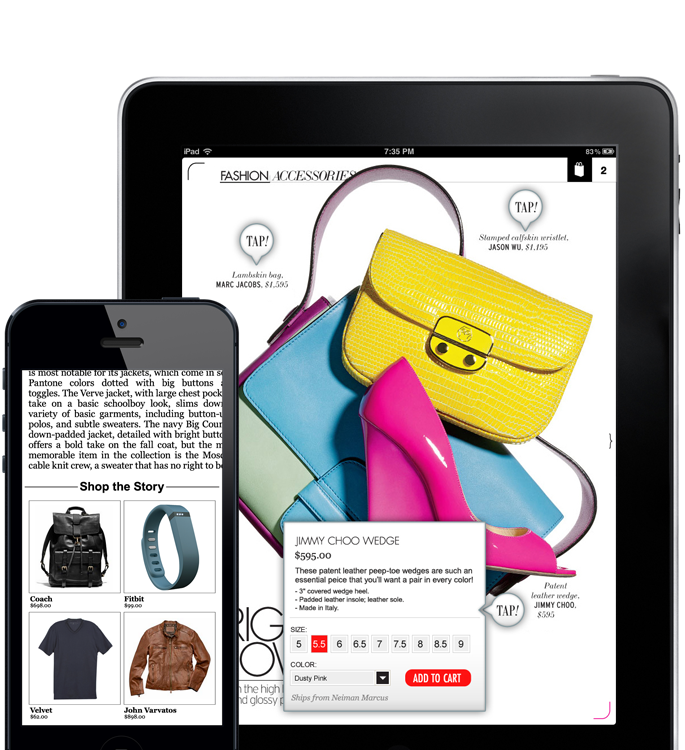
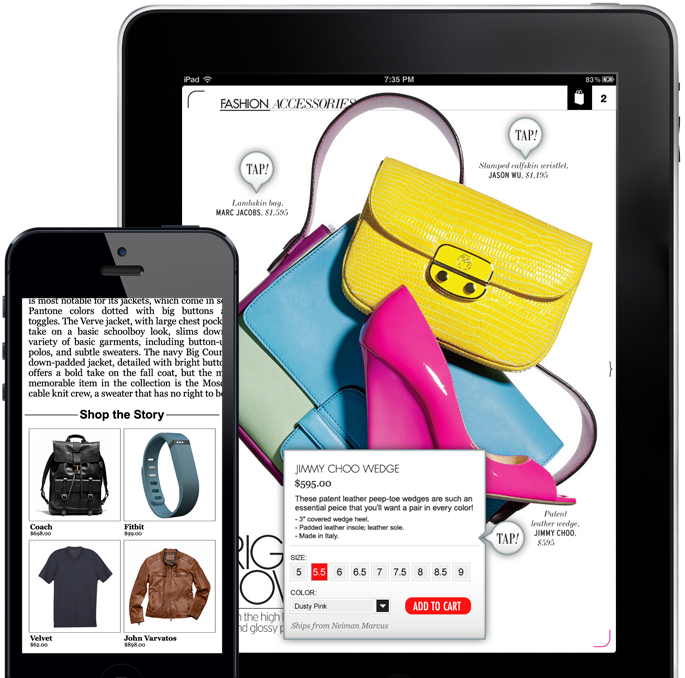
header image update.

diff --git a/72l/css/carousel.css b/72l/css/carousel.css
@@ -649,12 +649,12 @@ body.nav-open, .page-nav.nav-open {
 
 .publishers-header-container {
   height: 715px;
-  background: #fff url('../images/fi/ipad-and-iphone-vivek.png') no-repeat 5px 40px;
+  background: #fff url('../images/fi/ipad-and-iphone.png') no-repeat 5px 40px;
 }
 
 .merchants-header-container {
   height: 715px;
-  background: #fff url('../images/fi/ipad-and-iphone.png-vivek') no-repeat 5px 40px;
+  background: #fff url('../images/fi/ipad-and-iphone.png') no-repeat 5px 40px;
 }
 
 .shoppable-screencap-container {
